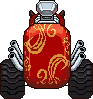
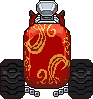
版325(Ver.1.1): 子がもターボジェットが回る、赤べこの排気管

diff --git a/field/worlds/noroi.js b/field/worlds/noroi.js
@@ -604,7 +604,7 @@ const nProtest = (st0) => {
 // 車箪笥は絵に排気管が見えない、とりぼぎかーはジェットなので、なし
 const N_FLAME = {
   rcs_aka: [[56, 64, -1, 0.15]],
-  rc_aka_back: [[11, 42, -0.6, -1], [81, 42, 0.6, -1]],
+  rc_aka_back: [[31, 91, 0, 0], [61, 91, 0, 0]], // 胴の下、後輪の内がわの 3 つの口のまん中から手前へ(D355)
   rcs_pon: [[18, 33, -0.6, -1], [32, 34, -0.6, -1], [44, 34, -0.6, -1], [55, 35, -0.6, -1]],
   rc_pon_back: [[27, 31, -0.7, -1], [145, 31, 0.7, -1]],
   rcs_kokeshi: [[8, 62, -1, -0.35]],
@@ -628,6 +628,67 @@ const nFlameI = (st0) => {
   const pr = nProtest(st0);
   if (pr) I = pr.rev ? (Math.max(0, Math.sin(s * 11)) > 0.3 ? 1 : 0.3) : 0.2;
   return I;
+};
+// とりぼぎかーの子がもターボジェット(D352、D354。設計図 docs/assets/noroi/settei/tori_jet/)。
+// くちばしから噴く反動で、子がもは尻から進み、回転台は上から見て反時計回り。子がもを消した桶の絵の上に、
+// 2 羽を点対称に置いて、向きごとの絵(kogamo: 0 くちばし右、1 右手前、2 手前、3 右奥、4 奥。左向きは裏返す)で、奥から描く。
+// 毎コマ、その絵をマシンの絵の代わりに渡す(ウィリーのまわし、うしろの画面の縮みはそのまま)。速く回るとコマごとに飛んで、ストロボのようにちらつく
+const N_KOGAMO = {
+  rcs_tori: { tub: "rcs_tori_tub", cx: 39.5, cy: 31, rx: 13, ry: 3.4, rear: false },
+  rc_tori_back: { tub: "rc_tori_tub", cx: 51.5, cy: 57, rx: 14, ry: 4.5, rear: true },
+};
+const nKg = { s: -1, th: 0.6, cv: {} };
+const nKogamoW = (st0) => 1 + 16 * nFlameI(st0); // 回る速さ(回/秒): 待つ間はゆっくり、バーンナウトと走りで速く
+const nKogamo = (get, key, st0) => {
+  const K = N_KOGAMO[key];
+  const tub = K && get(K.tub);
+  const sh = get("kogamo");
+  if (!tub || !sh) return null;
+  const w = nKogamoW(st0);
+  let ds = st0.s - nKg.s;
+  if (ds < 0 || ds > 0.2) ds = 1 / 60;
+  if (st0.s !== nKg.s) nKg.th += 2 * Math.PI * w * ds;
+  nKg.s = st0.s;
+  let cv = nKg.cv[key];
+  if (!cv) {
+    cv = nKg.cv[key] = document.createElement("canvas");
+    cv.width = tub.width;
+    cv.height = tub.height;
+  }
+  const c = cv.getContext("2d");
+  c.imageSmoothingEnabled = false;
+  c.clearRect(0, 0, cv.width, cv.height);
+  c.drawImage(tub, 0, 0);
+  const ducks = [0, Math.PI].map((o) => {
+    const th = nKg.th + o;
+    const X = Math.cos(th), Y = Math.sin(th); // 上から見て X = 車の右、Y = 前
+    const bx = Math.sin(th), by = -Math.cos(th); // くちばし = 時計回りの接線
+    const right = K.rear ? bx : by;
+    const toward = K.rear ? -by : bx;
+    return { sx: K.cx + (K.rear ? X : Y) * K.rx, sy: K.cy + (K.rear ? -Y : X) * K.ry, depth: K.rear ? -Y : X, right, toward };
+  });
+  ducks.sort((a, b) => a.depth - b.depth);
+  for (const d of ducks) {
+    const phi = Math.atan2(d.right, d.toward);
+    const fr = [2, 1, 0, 3, 4][Math.min(4, Math.round(Math.abs(phi) / (Math.PI / 4)))];
+    const flip = d.right < -0.05;
+    const x = Math.round(d.sx), y = Math.round(d.sy);
+    c.save();
+    c.translate(x, y);
+    if (flip) c.scale(-1, 1);
+    c.drawImage(sh, fr * 32, 0, 32, 32, -16, -32, 32, 32);
+    c.restore();
+    // くちばしの噴流(白い筋)。回るほど長い
+    if (w > 1.5 && d.toward < 0.9) {
+      const L = Math.round(3 + 9 * Math.min(1, w / 14));
+      const tx = x + Math.round(d.right * 13), ty = y - 21;
+      for (let i = 0; i < L; i++) {
+        c.fillStyle = `rgba(250, 250, 255, ${0.85 * (1 - i / L)})`;
+        c.fillRect(Math.round(tx + d.right * i - d.toward * 0), Math.round(ty - d.toward * i * 0.35 + (Math.random() - 0.5)), 1 + (i < 3 ? 1 : 0), 1);
+      }
+    }
+  }
+  return cv;
 };
 // 炎を描く。(x, y) が口、(dx, dy) が向き、k が絵の倍率。毎コマ、形を 4 つから選びなおす(高速で切りかわる)。ときどき一瞬消える
 const N_FLAME_COL = ["#ffffff", "#fff4b0", "#ffc83a", "#ff8a1e", "#ff4a14", "#b8201a"];
@@ -868,7 +929,7 @@ const nDrawRear = (ctx, ox, oy, get, api, st0) => {
   const burn = s > 1 && s < 3.2;
   const shk = (on, a) => (on ? Math.round(Math.sin(s * 47) * a) : 0);
   // 相手(左の車線)。遠い方から描く
-  const oim = get(N_REAR[rd.id]);
+  const oim = (N_KOGAMO[N_REAR[rd.id]] && nKogamo(get, N_REAR[rd.id], st0)) || get(N_REAR[rd.id]); // とりぼぎかーは子がもが回る(D352)
   const kim = get("rc_bogi_back");
   const drawOpp = () => {
     const st = s - N_GREEN;
@@ -1043,7 +1104,7 @@ const N_RACE = {
     const shk = (on, a) => (on ? Math.round(Math.sin(s * 47) * a) : 0);
     const st = s - N_GREEN;
     // 相手(奥の車線)
-    const oim = get(rd.img);
+    const oim = (N_KOGAMO[rd.img] && nKogamo(get, rd.img, st0)) || get(rd.img); // とりぼぎかーは子がもが回る(D352)
     const pr = nProtest(st0);
     const ofx = ox + N_SX + (pr ? pr.pos : opp) * N_PX - cam;
     let lift = rd.lift && st > 0 && st < 1.1 && !back ? rd.lift * Math.sin((Math.PI * st) / 1.1) : 0;

diff --git a/field/index.html b/field/index.html
@@ -14,8 +14,8 @@
   <link rel="apple-touch-icon" href="./apple-touch-icon.png">
   <meta name="apple-mobile-web-app-title" content="ぼぎだぢ">
   <meta http-equiv="Cache-Control" content="no-cache">
-  <script src="./fresh.js?v=324"></script>
-  <link rel="stylesheet" href="./style.css?v=324">
+  <script src="./fresh.js?v=325"></script>
+  <link rel="stylesheet" href="./style.css?v=325">
 </head>
 <body>
 
@@ -53,30 +53,30 @@
   <button type="button" id="actionBtnT" class="action-btn action-btn-t" aria-label="時計">TIME</button>
 
 
-  <script src="./audio.js?v=324"></script>
-  <script src="./rpg.js?v=324"></script>
-  <script src="./worlds/common.js?v=324"></script>
-  <script src="./worlds/lake.js?v=324"></script>
-  <script src="./worlds/void.js?v=324"></script>
-  <script src="./worlds/haihei.js?v=324"></script>
-  <script src="./worlds/kasumi.js?v=324"></script>
-  <script src="./worlds/banana.js?v=324"></script>
-  <script src="./worlds/suzuki.js?v=324"></script>
-  <script src="./worlds/takarabune.js?v=324"></script>
-  <script src="./worlds/noroi.js?v=324"></script>
-  <script src="./worlds/pinball.js?v=324"></script>
-  <script src="./worlds/padre.js?v=324"></script>
-  <script src="./worlds/kinsei.js?v=324"></script>
-  <script src="./worlds/bomber.js?v=324"></script>
-  <script src="./worlds/finale.js?v=324"></script>
-  <script src="./worlds/index.js?v=324"></script>
-  <script src="./app/layout.js?v=324"></script>
-  <script src="./app/dialog.js?v=324"></script>
-  <script src="./app/game.js?v=324"></script>
-  <script src="./app/status.js?v=324"></script>
-  <script src="./app/title.js?v=324"></script>
-  <script src="./app/watch.js?v=324"></script>
-  <script src="./app/input.js?v=324"></script>
-  <script src="./app/loop.js?v=324"></script>
+  <script src="./audio.js?v=325"></script>
+  <script src="./rpg.js?v=325"></script>
+  <script src="./worlds/common.js?v=325"></script>
+  <script src="./worlds/lake.js?v=325"></script>
+  <script src="./worlds/void.js?v=325"></script>
+  <script src="./worlds/haihei.js?v=325"></script>
+  <script src="./worlds/kasumi.js?v=325"></script>
+  <script src="./worlds/banana.js?v=325"></script>
+  <script src="./worlds/suzuki.js?v=325"></script>
+  <script src="./worlds/takarabune.js?v=325"></script>
+  <script src="./worlds/noroi.js?v=325"></script>
+  <script src="./worlds/pinball.js?v=325"></script>
+  <script src="./worlds/padre.js?v=325"></script>
+  <script src="./worlds/kinsei.js?v=325"></script>
+  <script src="./worlds/bomber.js?v=325"></script>
+  <script src="./worlds/finale.js?v=325"></script>
+  <script src="./worlds/index.js?v=325"></script>
+  <script src="./app/layout.js?v=325"></script>
+  <script src="./app/dialog.js?v=325"></script>
+  <script src="./app/game.js?v=325"></script>
+  <script src="./app/status.js?v=325"></script>
+  <script src="./app/title.js?v=325"></script>
+  <script src="./app/watch.js?v=325"></script>
+  <script src="./app/input.js?v=325"></script>
+  <script src="./app/loop.js?v=325"></script>
 </body>
 </html>

diff --git a/field/worlds/index.js b/field/worlds/index.js
@@ -308,7 +308,7 @@ window.BOGI_WORLDS = {
     images: Object.fromEntries(
       ["bg_pass", "bg_drivein", "bg_strip", "bg_diner", "drum", "fueler", "tree", "plaque", "v_custom", "v_finish", "v_photo",
         "rc_plate", "rc_lamps", "v_plaque", "rc_ki_back", "rc_ki_stick", "rc_bogi_back", "rc_pon_back", "rc_tori_back", "rc_aka_back", "pylon", "rc_tansu_back", "rc_kokeshi_back",
-        "rcs_sky", "rcs_stands", "rcs_road", "rcs_crowd", "rcs_tree", "rcs_ki", "rcs_ki_stick", "rcs_bogi", "rcs_pon", "rcs_tori", "rcs_aka", "rcs_tansu", "rcs_kokeshi",
+        "rcs_sky", "rcs_stands", "rcs_road", "rcs_crowd", "rcs_tree", "rcs_ki", "rcs_ki_stick", "rcs_bogi", "rcs_pon", "rcs_tori", "rcs_aka", "rcs_tansu", "rcs_kokeshi", "rcs_tori_tub", "rc_tori_tub", "kogamo",
         "ponpon_e", "ponpon_s", "akabeko_e", "akabeko_s", "tori_e", "tori_s", "kokeshi_e", "kokeshi_s", "tansu_e", "tansu_w", "miton_s",
         "bogicar_e_ki", "bogicar_e_stick", "bogicar_e_flame", "v_mag_0", "v_mag_1", "v_mag_2", "v_mag_3", "v_mag_4", "v_mag_5", "v_mag_6", "pb_backglass", "pb_field", "pb_bump_beko", "pb_bump_drum", "pb_bump_duck", "pb_flipper"]
         .map((k) => [k, `${k}.png`])

diff --git a/field/fresh.js b/field/fresh.js
@@ -1,7 +1,7 @@
 // 古い版が残らないように(ホーム画面に置いたとき、ページそのものが手元に残る)。index.html の中から、このファイルに出した(D301。ページの中に直接書いた script を禁止するため)
 // version.json(毎回取りにいく)の版がこのページとちがえば、URL を変えて読みなおす。版を上げるときは、下の数と version.json と ?v= をそろえる
 (function () {
-  var V = "324";
+  var V = "325";
   var key = "bogidachi.reloadedFor";
   function check(onlyIfSafe) {
     fetch("./version.json?t=" + Date.now(), { cache: "no-store" })
